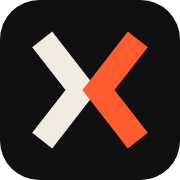
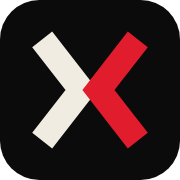
Portfólio: vermelho e preto, ícone X, TZ real, certificado

Changed region(s): [[0.4444, 0.1667, 0.8333, 0.8333]]

diff --git a/estilo.css b/estilo.css
@@ -2,13 +2,13 @@
 @font-face{font-family:Cond;src:url(fonts/barlow-condensed-800.woff2) format("woff2");font-weight:800;font-display:swap}
 @font-face{font-family:Bar;src:url(fonts/barlow-400.woff2) format("woff2");font-weight:400;font-display:swap}
 @font-face{font-family:Bar;src:url(fonts/barlow-600.woff2) format("woff2");font-weight:600;font-display:swap}
-:root{--f:#101011;--p:#19191b;--p2:#222225;--t:#f1ece2;--m:#a7a196;--a:#ff5b2e;--a2:#ff7a52;--l:#34343a;--ease:cubic-bezier(.2,.7,.2,1)}
+:root{--f:#0b0b0c;--p:#151517;--p2:#1e1e21;--t:#f1ece2;--m:#a7a196;--a:#e11d2d;--a2:#ff3b4a;--l:#34343a;--ease:cubic-bezier(.2,.7,.2,1)}
 html{-webkit-text-size-adjust:100%;scroll-behavior:smooth;scroll-padding-top:76px}
 body{margin:0;background:var(--f);color:var(--t);font:400 18px/1.55 Bar,Arial,sans-serif;overflow-x:hidden}
 img{display:block;width:100%;height:auto}a{color:inherit}h1,h2,h3,p,ul,ol{margin:0}ul,ol{padding:0;list-style:none}
 :focus-visible{outline:3px solid var(--a);outline-offset:3px;border-radius:3px}
 .w{width:min(1320px,100% - 56px);margin-inline:auto}
-.pular{position:absolute;left:12px;top:-60px;z-index:99;background:var(--a);color:#111;padding:10px 16px;font-weight:600}.pular:focus{top:10px}
+.pular{position:absolute;left:12px;top:-60px;z-index:99;background:var(--a);color:#fff;padding:10px 16px;font-weight:600}.pular:focus{top:10px}
 .topo{position:sticky;top:0;z-index:50;background:rgba(16,16,17,.84);backdrop-filter:blur(12px);border-bottom:1px solid transparent;transition:border-color .3s}
 .topo.rolou{border-color:var(--l)}
 .topo-in{display:flex;justify-content:space-between;align-items:center;padding-block:14px}
@@ -18,7 +18,7 @@ nav a{text-decoration:none;position:relative;padding:4px 0}nav a:not(.cv)::after
 .cv{border:1.5px solid var(--t);padding:7px 16px;transition:background .25s,color .25s}.cv:hover{background:var(--t);color:var(--f)}
 /* capa */
 .hero{position:relative;padding:5vh 0 9vh;background:linear-gradient(rgba(255,255,255,.035) 1px,transparent 1px) 0 0/48px 48px,linear-gradient(90deg,rgba(255,255,255,.035) 1px,transparent 1px) 0 0/48px 48px;overflow:hidden}
-.hero::before{content:"";position:absolute;right:-12vw;top:-14vh;width:46vw;height:46vw;background:radial-gradient(circle,rgba(255,91,46,.2),transparent 62%);pointer-events:none}
+.hero::before{content:"";position:absolute;right:-12vw;top:-14vh;width:46vw;height:46vw;background:radial-gradient(circle,rgba(225,29,45,.2),transparent 62%);pointer-events:none}
 .hero::after{content:"";position:absolute;inset:auto 0 0 0;height:22vh;background:linear-gradient(transparent,var(--f));pointer-events:none}
 .hero-g{position:relative;z-index:2;display:grid;grid-template-columns:minmax(0,6fr) minmax(0,6fr);gap:3vw;align-items:center}
 .tag{font-weight:600;color:var(--a);letter-spacing:.14em;text-transform:uppercase;font-size:.88rem;margin-bottom:18px}
@@ -27,15 +27,15 @@ h1 span{display:block}.l2{color:var(--a)}
 .lead{font-size:clamp(1.1rem,1.5vw,1.35rem);line-height:1.45;font-weight:600;max-width:34em}
 .nums{display:flex;gap:30px;flex-wrap:wrap;margin-top:30px}.nums li{border-left:2px solid var(--a);padding-left:14px}.nums b{display:block;font:800 clamp(2.4rem,3.6vw,3.2rem)/1 Cond,sans-serif}.nums span{color:var(--m);font-size:.88rem;line-height:1.3;display:block;max-width:12em}
 .cta{display:flex;flex-wrap:wrap;gap:14px;margin-top:34px}
-.bt{display:inline-flex;align-items:center;gap:10px;background:var(--a);color:#111;font-weight:600;text-decoration:none;padding:14px 26px;transition:background .25s,transform .25s var(--ease)}.bt:hover{background:var(--a2);transform:translateY(-2px)}.bt span{transition:transform .25s var(--ease)}.bt:hover span{transform:translateX(5px)}
+.bt{display:inline-flex;align-items:center;gap:10px;background:var(--a);color:#fff;font-weight:600;text-decoration:none;padding:14px 26px;transition:background .25s,transform .25s var(--ease)}.bt:hover{background:var(--a2);transform:translateY(-2px)}.bt span{transition:transform .25s var(--ease)}.bt:hover span{transform:translateX(5px)}
 .bt.sec{background:transparent;color:var(--t);border:1.5px solid var(--t)}.bt.sec:hover{background:var(--t);color:var(--f)}
-.bt.escuro{background:#111;color:var(--t)}.bt.escuro:hover{background:#000;transform:translateY(-2px)}
+.bt.escuro{background:#0b0b0c;color:var(--t)}.bt.escuro:hover{background:#000;transform:translateY(-2px)}
 .colagem{position:relative;aspect-ratio:1/.95}
 .cl{position:absolute;width:76%;border:1px solid var(--l);background:var(--p);box-shadow:0 30px 60px -24px rgba(0,0,0,.8)}
 .cl1{left:0;top:2%;z-index:3;transform:rotate(-3deg);box-shadow:12px 12px 0 var(--a),0 30px 60px -24px rgba(0,0,0,.8)}
 .cl2{right:0;top:22%;z-index:2;transform:rotate(2.5deg)}
 .cl3{left:12%;bottom:0;z-index:1;transform:rotate(-1deg)}
-.selo-h{position:absolute;right:2%;top:-2%;z-index:4;display:grid;place-items:center;width:112px;height:112px;border-radius:50%;background:var(--a);color:#111;font:800 1.1rem/1.05 Cond,sans-serif;text-transform:uppercase;text-align:center;transform:rotate(12deg)}
+.selo-h{position:absolute;right:2%;top:-2%;z-index:4;display:grid;place-items:center;width:112px;height:112px;border-radius:50%;background:var(--a);color:#fff;font:800 1.1rem/1.05 Cond,sans-serif;text-transform:uppercase;text-align:center;transform:rotate(12deg)}
 /* seções */
 .sec-cab{display:flex;justify-content:space-between;align-items:end;flex-wrap:wrap;gap:12px 40px;padding:90px 0 34px}
 h2{font:800 clamp(2.8rem,6vw,5.2rem)/.9 Cond,sans-serif;text-transform:uppercase;position:relative}h2::before{content:"";display:block;width:56px;height:6px;background:var(--a);margin-bottom:18px}
@@ -71,12 +71,12 @@ h3{font:800 clamp(2.4rem,4.2vw,4rem)/.95 Cond,sans-serif;text-transform:uppercas
 .linha{position:relative;display:grid;gap:26px;padding-left:34px;border-left:2px solid var(--l)}
 .linha li{position:relative}.linha li::before{content:"";position:absolute;left:-43px;top:.35em;width:16px;height:16px;border-radius:50%;background:var(--f);border:3px solid var(--a)}
 .linha b{display:block;font:800 1.9rem/1 Cond,sans-serif;color:var(--t)}.linha span{color:#cfc9bd;font-size:.97rem}.linha .agora::before{background:var(--a)}.linha .agora b{color:var(--a)}
-.rod{margin-top:100px;background:var(--a);color:#111;padding:72px 0 34px}
+.rod{margin-top:100px;background:var(--a);color:#fff;padding:72px 0 34px}
 .rod-g{display:flex;justify-content:space-between;align-items:end;flex-wrap:wrap;gap:30px 60px}
 .rod h2{font-size:clamp(3.4rem,9vw,8rem);line-height:.88;margin-bottom:18px}.rod h2::before{display:none}
 .rod p{font-weight:600;font-size:1.1rem;max-width:34em;margin-bottom:24px}
-.rod-l{display:grid;gap:10px;font:800 1.7rem/1 Cond,sans-serif;text-transform:uppercase}.rod-l a{text-decoration:none;border-bottom:3px solid #111}.rod-l a:hover{background:#111;color:var(--a)}
-.rod .mini{font-weight:400;font-size:.85rem;opacity:.8;border-top:1px solid rgba(0,0,0,.25);padding-top:18px;margin:44px 0 0;max-width:none}
+.rod-l{display:grid;gap:10px;font:800 1.7rem/1 Cond,sans-serif;text-transform:uppercase}.rod-l a{text-decoration:none;border-bottom:3px solid #0b0b0c}.rod-l a:hover{background:#0b0b0c;color:#fff}
+.rod .mini{font-weight:400;font-size:.85rem;opacity:.8;border-top:1px solid rgba(255,255,255,.35);padding-top:18px;margin:44px 0 0;max-width:none}
 .e404{padding:20vh 0}.e404 h1{font-size:clamp(3rem,10vw,8rem)}
 @media(max-width:1000px){.w{width:calc(100% - 32px)}nav{gap:16px;font-size:.9rem}nav a:not(.cv){display:none}.hero-g{grid-template-columns:1fr;gap:34px}.colagem{max-width:560px;width:100%;margin:10px auto 0}.dest{grid-template-columns:1fr;padding:22px;gap:26px}.dest .quadro{box-shadow:8px 8px 0 var(--a)}.proj,.proj.inv{grid-template-columns:1fr;gap:20px;padding:40px 0}.proj .quadro,.proj.inv .quadro{order:3}.passos{grid-template-columns:1fr 1fr}.sobre-g{grid-template-columns:1fr;gap:34px}.sec-cab{padding-top:64px}}
 @media(max-width:560px){.passos{grid-template-columns:1fr}.cta .bt{width:100%;justify-content:center}.selo-h{width:88px;height:88px;font-size:.9rem}.rod-l{font-size:1.4rem}}

diff --git a/index.html b/index.html
@@ -11,7 +11,7 @@
 <meta property="og:description" content="Sites para pequenos negócios e um sistema web com painel e banco de dados.">
 <meta property="og:url" content="https://xandedev.pages.dev/">
 <meta property="og:image" content="https://xandedev.pages.dev/og.png">
-<meta name="theme-color" content="#101011">
+<meta name="theme-color" content="#0b0b0c">
 <link rel="icon" href="favicon.svg" type="image/svg+xml">
 <link rel="icon" href="favicon-32.png" sizes="32x32" type="image/png">
 <link rel="apple-touch-icon" href="apple-touch-icon.png">
